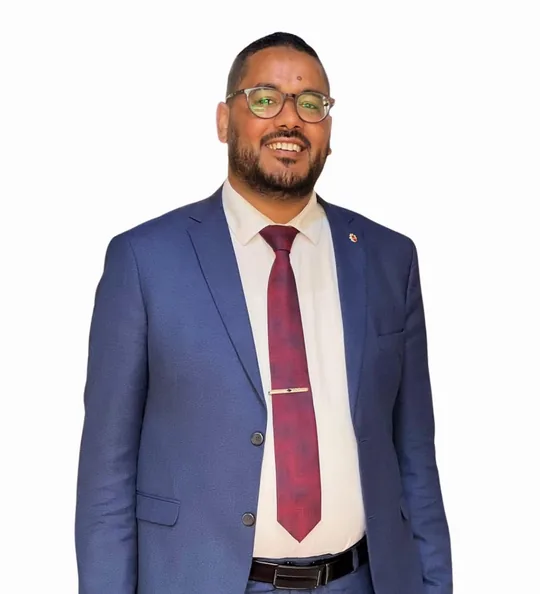
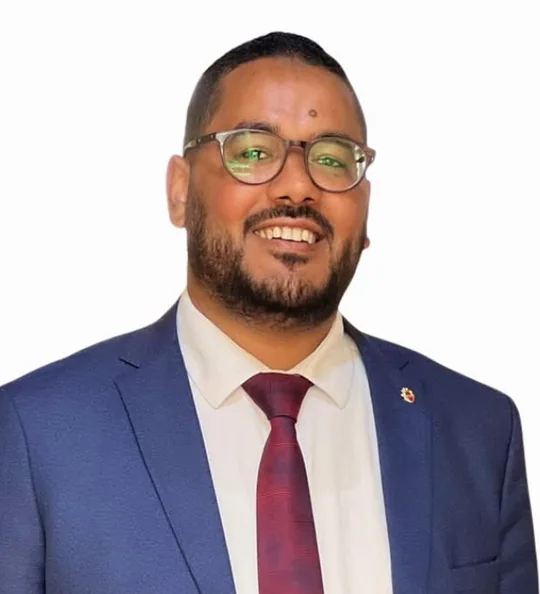
Add teacher carousel and screenshot testimonials, improve mobile copy

diff --git a/index.html b/index.html
@@ -1,17 +1,17 @@
 <!doctype html>
-<html lang="ar" dir="rtl"><head><meta charset="utf-8"><meta name="viewport" content="width=device-width, initial-scale=1"><meta name="theme-color" content="#5515a8"><meta name="description" content="صُنّاع النجاح: دروس مباشرة ودعم مدرسي عن بُعد بالمغرب. اكتشف المستويات والمواد وسجل طلبك عبر واتساب."><title>صُنّاع النجاح — نجاحك الدراسي كيبدا من هنا</title><link rel="preconnect" href="https://fonts.googleapis.com"><link href="https://fonts.googleapis.com/css2?family=Cairo:wght@400;600;700;800;900&display=swap" rel="stylesheet"><link rel="stylesheet" href="style.css"><link rel="stylesheet" href="mobile.css" media="(max-width: 600px)"><link rel="stylesheet" href="levels.css"></head><body>
+<html lang="ar" dir="rtl"><head><meta charset="utf-8"><meta name="viewport" content="width=device-width, initial-scale=1"><meta name="theme-color" content="#5515a8"><meta name="description" content="صُنّاع النجاح: دروس مباشرة ودعم مدرسي عن بُعد بالمغرب. اكتشف المستويات والمواد وسجل طلبك عبر واتساب."><title>صُنّاع النجاح — نجاحك الدراسي كيبدا من هنا</title><link rel="preconnect" href="https://fonts.googleapis.com"><link href="https://fonts.googleapis.com/css2?family=Cairo:wght@400;600;700;800;900&display=swap" rel="stylesheet"><link rel="stylesheet" href="style.css"><link rel="stylesheet" href="mobile.css" media="(max-width: 600px)"><link rel="stylesheet" href="levels.css"><link rel="stylesheet" href="teachers-carousel.css"><link rel="stylesheet" href="reviews.css"></head><body>
 <header class="nav wrap"><a href="#" aria-label="صناع النجاح، الرئيسية"><img src="assets/logo/brand.png" alt="فريق صُنّاع النجاح — رواد التدريس عن بُعد في المغرب"></a><nav aria-label="التنقل الرئيسي"><a href="#program">البرنامج</a><a href="#levels">المستويات</a><a href="#teachers">الأساتذة</a></nav><button class="small primary" data-register>ابدأ رحلة النجاح ↗</button></header>
-<main><section class="hero wrap"><div class="hero-copy"><span class="eyebrow">السنة الدراسية <bdi>2026/2027</bdi></span><p class="kicker">طموحك كبير. وحنا معاك.</p><h1>نجاحك الدراسي<br><span>كيبدا من هنا!</span></h1><p class="intro">تعليم عن بُعد بجودة عالية ومنهجية منظمة، مع نخبة من الأساتذة المتخصصين لجميع المستويات الدراسية.</p><div class="actions"><button class="whatsapp" data-register>سجل عبر واتساب <span>↖</span></button><a class="outline" href="#program">اكتشف البرنامج</a></div><div class="hero-note"><span>✓ حصص مباشرة وتفاعلية</span><span>✓ مواكبة طوال السنة</span></div></div><div class="hero-visual"><picture><source media="(max-width: 600px)" srcset="assets/images/hero-mobile-reference.png"><img src="assets/images/hero-generated.png" alt="تلميذ يتابع درسا عن بعد على حاسوبه"></picture><div class="visual-tag"><span>✦</span><div>خطوة اليوم، نجاح الغد<small>تعلم من مكانك… وحقق طموحك</small></div></div><span class="visual-year">2026<br><b>2027</b></span></div></section>
+<main><section class="hero wrap"><div class="hero-copy"><span class="eyebrow">السنة الدراسية <bdi>2026/2027</bdi></span><p class="kicker">طموحك كبير. وحنا معاك.</p><h1>نجاحك الدراسي<br><span>كيبدا من هنا!</span></h1><p class="intro"><span>تعليم عن بُعد بجودة عالية</span> <span>ومنهجية منظمة، مع نخبة من</span> <span>الأساتذة المتخصصين لجميع</span> <span>المستويات الدراسية.</span></p><div class="actions"><button class="whatsapp" data-register>سجل عبر واتساب <span>↖</span></button><a class="outline" href="#program">اكتشف البرنامج</a></div><div class="hero-note"><span>✓ حصص مباشرة وتفاعلية</span><span>✓ مواكبة طوال السنة</span></div></div><div class="hero-visual"><picture><source media="(max-width: 600px)" srcset="assets/images/hero-mobile-reference.png"><img src="assets/images/hero-generated.png" alt="تلميذ يتابع درسا عن بعد على حاسوبه"></picture><div class="visual-tag"><span>✦</span><div>خطوة اليوم، نجاح الغد<small>تعلم من مكانك… وحقق طموحك</small></div></div><span class="visual-year">2026<br><b>2027</b></span></div></section>
 <div class="trust"><div class="wrap"><span>♜ نخبة من الأساتذة الخبراء</span><span>★ تعلم منظم ومواكبة مستمرة</span><span>✦ رحلة دراسية بطموح أكبر</span></div></div>
 <section id="program" class="section wrap"><div class="section-head"><span class="eyebrow">كل ما تحتاجه لتتقدم</span><h2>مميزات فريق صُنّاع النجاح</h2><p>رحلة دراسية متكاملة، في مكان واحد</p></div><div id="features" class="features grid"></div></section>
 <section id="levels" class="section levels-section"><div class="wrap"><div class="section-head"><span class="eyebrow">لكل مرحلة، بداية جديدة</span><h2>المستويات المتوفرة</h2><p>مواكبة شاملة تناسب مستواك وأهدافك</p></div><div class="levels grid" id="level-cards"></div></div></section>
 <section class="section wrap"><div class="section-head"><h2>المواد المتوفرة</h2><p>تعلّم، تمرّن، وثبّت مكتسباتك مع أساتذة متخصصين</p></div><div class="subjects grid" id="subjects"></div></section>
-<section id="teachers" class="section teachers-section"><div class="wrap"><div class="section-head"><span class="eyebrow">خبرة ترافق طموحك</span><h2>فريق الأساتذة</h2><p>نخبة من الأساتذة المتخصصين في مختلف المواد</p></div><div id="teacher-cards" class="teachers grid"></div></div></section>
+<section id="teachers" class="section teachers-section"><div class="wrap"><div class="section-head"><span class="eyebrow">خبرة ترافق طموحك</span><h2>فريق الأساتذة</h2><p>نخبة من الأساتذة المتخصصين في مختلف المواد</p></div><div class="teacher-carousel" role="region" aria-roledescription="سلايدر" aria-label="فريق الأساتذة"><div id="teacher-cards" class="teachers grid" tabindex="0" aria-label="اسحب لتصفح الأساتذة"></div><div class="teacher-controls"><button type="button" id="teacher-prev" aria-label="الأستاذ السابق"><svg viewBox="0 0 24 24" fill="none" aria-hidden="true"><path d="m9 5 7 7-7 7" stroke="currentColor" stroke-width="2.2" stroke-linecap="round" stroke-linejoin="round"/></svg></button><button type="button" id="teacher-next" aria-label="الأستاذ التالي"><svg viewBox="0 0 24 24" fill="none" aria-hidden="true"><path d="m15 5-7 7 7 7" stroke="currentColor" stroke-width="2.2" stroke-linecap="round" stroke-linejoin="round"/></svg></button></div></div></div></section>
 <section class="section wrap"><div class="section-head"><h2>لماذا تختار فريق صُنّاع النجاح؟</h2></div><div id="why" class="why grid"></div></section>
-<section class="final-cta footer-banner" aria-labelledby="footer-cta-title">
+<section id="reviews" class="section reviews-section" aria-labelledby="reviews-title"><div class="wrap"><div class="section-head"><h2 id="reviews-title">آراء التلاميذ</h2><p>من تعليقاتكم على صفحة صُنّاع النجاح في فيسبوك</p></div><div class="reviews-track" id="reviews-track" tabindex="0" aria-label="آراء التلاميذ، اسحب لتصفح التعليقات"></div><div class="teacher-controls"><button type="button" id="reviews-prev" aria-label="التعليق السابق"><svg viewBox="0 0 24 24" fill="none" aria-hidden="true"><path d="m9 5 7 7-7 7" stroke="currentColor" stroke-width="2.2" stroke-linecap="round" stroke-linejoin="round"/></svg></button><button type="button" id="reviews-next" aria-label="التعليق التالي"><svg viewBox="0 0 24 24" fill="none" aria-hidden="true"><path d="m15 5-7 7 7 7" stroke="currentColor" stroke-width="2.2" stroke-linecap="round" stroke-linejoin="round"/></svg></button></div><p class="reviews-source">مقتطفات من التعليقات المرسلة، مع الحفاظ على خصوصية أصحابها. <a href="https://www.facebook.com/share/1F9B8NvXde/" target="_blank" rel="noopener noreferrer">صفحتنا على فيسبوك ↗</a></p></div></section><section class="final-cta footer-banner" aria-labelledby="footer-cta-title">
 <div class="footer-banner-copy"><h2 id="footer-cta-title">ادرس مع فريق صُنّاع النجاح<br><em>✨ وكن من المتفوقين ✨</em></h2>
 <a class="footer-register" href="https://wa.me/212663104227" target="_blank" rel="noopener noreferrer"><svg class="footer-wa" viewBox="0 0 32 32" fill="none" aria-hidden="true"><path d="M27.5 15.7a11.6 11.6 0 0 1-17.2 10.2L4 27.5l1.7-6.1A11.6 11.6 0 1 1 27.5 15.7Z" stroke="currentColor" stroke-width="2.2" stroke-linejoin="round"/><path d="m11.7 9.7 2 4-1.5 1.6c1.2 2.2 2.5 3.5 4.8 4.5l1.5-1.7 4 2c-.4 2-1.7 3.1-3.8 2.6-5.1-1.2-9-5.1-10.2-9.9-.5-1.7.8-3 3.2-3.1Z" fill="currentColor"/></svg><span class="footer-register-copy"><span>للتسجيل والاستفسار عبر واتساب</span><strong dir="ltr">0663104227</strong></span><span class="footer-arrow" aria-hidden="true">←</span></a>
 </div></section>
 </main>
 <footer class="site-footer"><div class="footer-benefits wrap" aria-label="مميزات التسجيل"><div class="footer-benefit"><span class="footer-benefit-icon"><span class="asset-icon" style="--ix:4;--iy:4" aria-hidden="true"></span></span><div><strong>فريق دعم متواجد</strong><small>طوال أيام الأسبوع</small></div></div><div class="footer-benefit"><span class="footer-benefit-icon"><span class="asset-icon" style="--ix:3;--iy:4" aria-hidden="true"></span></span><div><strong>تسجيل سهل</strong><small>وبدون تعقيدات</small></div></div><div class="footer-benefit"><span class="footer-benefit-icon"><span class="asset-icon" style="--ix:2;--iy:4" aria-hidden="true"></span></span><div><strong>تواصل سريع</strong><small>ورد على جميع الاستفسارات</small></div></div></div><div class="footer-meta wrap"><span>صُنّاع النجاح · السنة الدراسية <bdi>2026 / 2027</bdi></span><div><a class="social-link" href="https://www.instagram.com/sonaa_najah" target="_blank" rel="noopener noreferrer" aria-label="Instagram — صُنّاع النجاح"><svg viewBox="0 0 24 24" fill="none" aria-hidden="true"><rect x="3" y="3" width="18" height="18" rx="5" stroke="currentColor" stroke-width="1.8"/><circle cx="12" cy="12" r="4" stroke="currentColor" stroke-width="1.8"/><circle cx="17.5" cy="6.5" r="1.2" fill="currentColor"/></svg><span>Instagram</span></a><a class="social-link" href="https://www.facebook.com/share/1F9B8NvXde/" target="_blank" rel="noopener noreferrer" aria-label="Facebook — صُنّاع النجاح"><svg viewBox="0 0 24 24" fill="currentColor" aria-hidden="true"><path d="M14 21v-8h2.7l.4-3H14V8.1c0-.9.3-1.5 1.6-1.5h1.7V3.9a22 22 0 0 0-2.5-.1c-2.5 0-4.2 1.5-4.2 4.3V10H8v3h2.6v8H14Z"/></svg><span>Facebook</span></a></div></div></footer><button class="floating whatsapp" data-register>سجل الآن <span>↖</span></button>
-<dialog id="registration" aria-labelledby="modal-title"><div class="modal-top"><div><strong id="modal-title">ابدأ رحلتك مع صُنّاع النجاح</strong><small>خطوات بسيطة نحو مستقبل أفضل</small></div><button id="close" class="icon-button" aria-label="إغلاق">×</button></div><div class="progress" aria-label="مراحل التسجيل"></div><form id="registration-form" novalidate><div id="step-content"></div><p id="form-error" role="alert"></p><div class="form-nav"><button type="button" id="back" class="outline">→ السابق</button><button type="submit" id="next" class="primary">التالي ←</button></div></form></dialog><script src="script.js"></script></body></html>
+<dialog id="registration" aria-labelledby="modal-title"><div class="modal-top"><div><strong id="modal-title">ابدأ رحلتك مع صُنّاع النجاح</strong><small>خطوات بسيطة نحو مستقبل أفضل</small></div><button id="close" class="icon-button" aria-label="إغلاق">×</button></div><div class="progress" aria-label="مراحل التسجيل"></div><form id="registration-form" novalidate><div id="step-content"></div><p id="form-error" role="alert"></p><div class="form-nav"><button type="button" id="back" class="outline">→ السابق</button><button type="submit" id="next" class="primary">التالي ←</button></div></form></dialog><script src="script.js"></script><script src="teachers-carousel.js"></script><script src="reviews.js"></script></body></html>

diff --git a/assets-preview.html b/assets-preview.html
@@ -1,1 +1,1 @@
-<!doctype html><html lang="ar" dir="rtl"><meta charset="utf-8"><meta name="viewport" content="width=device-width,initial-scale=1"><title>Sonaa Najah - Asset review</title><style>body{font:16px Arial,sans-serif;background:#f8f3ff;color:#240763;margin:30px;line-height:1.8}main{max-width:1200px;margin:auto}a{color:#5515a8}.grid{display:grid;grid-template-columns:repeat(auto-fit,minmax(200px,1fr));gap:20px}figure{margin:0;background:white;border:1px solid #dfc8fb;border-radius:20px;padding:20px;text-align:center}figure img{width:100%;height:230px;object-fit:contain;background:radial-gradient(ellipse at bottom,#e2c6ff,transparent 65%)}.wide{display:block;width:100%;height:auto;border-radius:20px}.atlas{max-width:800px;margin:auto;background:white}h1,h2{margin-top:35px}figcaption{font-size:14px}small{color:#816398}</style><main><a href="index.html">Sonaa Najah ?</a><h1>Generated assets</h1><small>Built-in ImageGen ? teacher portraits supplied by the user and optimized as WebP.</small><h2>Hero</h2><img class="wide" src="assets/images/hero-generated.png" alt="Hero"><h2>Footer banner</h2><img class="wide" src="assets/images/footer-banner-generated.png" alt="Footer banner"><h2>Teacher portraits</h2><div class="grid"><figure><img src="assets/images/teacher-0-photo.webp" alt="د. صابر مستور"><figcaption><strong>د. صابر مستور</strong><br>اللغة العربية</figcaption></figure><figure><img src="assets/images/teacher-1-photo.webp" alt="د. محمد أسكنيض"><figcaption><strong>د. محمد أسكنيض</strong><br>اللغة الفرنسية</figcaption></figure><figure><img src="assets/images/teacher-2-photo.webp" alt="د. زكرياء خشاش"><figcaption><strong>د. زكرياء خشاش</strong><br>التربية الإسلامية</figcaption></figure><figure><img src="assets/images/teacher-3-photo.webp" alt="د. زكي الأنصاري"><figcaption><strong>د. زكي الأنصاري</strong><br>الاجتماعيات</figcaption></figure><figure><img src="assets/images/teacher-4-photo.webp" alt="د. عبد الرحيم الزعاري"><figcaption><strong>د. عبد الرحيم الزعاري</strong><br>علوم الحياة والأرض</figcaption></figure><figure><img src="assets/images/teacher-5-photo.webp" alt="د. نوفل فزازي"><figcaption><strong>د. نوفل فزازي</strong><br>الفلسفة</figcaption></figure><figure><img src="assets/images/teacher-6-photo.webp" alt="د. أمين السحات"><figcaption><strong>د. أمين السحات</strong><br>اللغة الإنجليزية</figcaption></figure><figure><img src="assets/images/teacher-7-photo.webp" alt="د. المهدي سويومطو"><figcaption><strong>د. المهدي سويومطو</strong><br>الرياضيات</figcaption></figure><figure><img src="assets/images/teacher-8-photo.webp" alt="د. زكرياء عنترة"><figcaption><strong>د. زكرياء عنترة</strong><br>الفيزياء والكيمياء</figcaption></figure><figure><img src="assets/images/teacher-9-photo.webp" alt="د. عثمان سلاسي"><figcaption><strong>د. عثمان سلاسي</strong><br>الإشراف والمواكبة</figcaption></figure></div><h2>Students & decoration</h2><div class="grid"><figure><img src="assets/images/student-middle.png" alt="student-middle"><figcaption>student-middle</figcaption></figure><figure><img src="assets/images/student-first.png" alt="student-first"><figcaption>student-first</figcaption></figure><figure><img src="assets/images/student-second.png" alt="student-second"><figcaption>student-second</figcaption></figure><figure><img src="assets/images/cta-books.png" alt="cta-books"><figcaption>cta-books</figcaption></figure></div><h2>25 education icons</h2><img class="wide atlas" src="assets/icons/education-atlas.png" alt="25 icon education atlas"></main></html>
+<!doctype html><html lang="ar" dir="rtl"><meta charset="utf-8"><meta name="viewport" content="width=device-width,initial-scale=1"><title>Sonaa Najah - Asset review</title><style>body{font:16px Arial,sans-serif;background:#f8f3ff;color:#240763;margin:30px;line-height:1.8}main{max-width:1200px;margin:auto}a{color:#5515a8}.grid{display:grid;grid-template-columns:repeat(auto-fit,minmax(200px,1fr));gap:20px}figure{margin:0;background:white;border:1px solid #dfc8fb;border-radius:20px;padding:20px;text-align:center}figure img{width:100%;height:230px;object-fit:contain;background:radial-gradient(ellipse at bottom,#e2c6ff,transparent 65%)}.wide{display:block;width:100%;height:auto;border-radius:20px}.atlas{max-width:800px;margin:auto;background:white}h1,h2{margin-top:35px}figcaption{font-size:14px}small{color:#816398}</style><main><a href="index.html">Sonaa Najah ?</a><h1>Generated assets</h1><small>Built-in ImageGen ? teacher portraits supplied by the user and optimized as WebP.</small><h2>Hero</h2><img class="wide" src="assets/images/hero-generated.png" alt="Hero"><h2>Footer banner</h2><img class="wide" src="assets/images/footer-banner-generated.png" alt="Footer banner"><h2>Teacher portraits</h2><div class="grid"><figure><img src="assets/images/teacher-0-photo.webp" alt="ذ. صابر مستور"><figcaption><strong>ذ. صابر مستور</strong><br>اللغة العربية</figcaption></figure><figure><img src="assets/images/teacher-1-photo.webp" alt="ذ. محمد أسكنيض"><figcaption><strong>ذ. محمد أسكنيض</strong><br>اللغة الفرنسية</figcaption></figure><figure><img src="assets/images/teacher-2-photo.webp" alt="ذ. زكرياء خشاش"><figcaption><strong>ذ. زكرياء خشاش</strong><br>التربية الإسلامية</figcaption></figure><figure><img src="assets/images/teacher-3-photo.webp" alt="ذ. زكي الأنصاري"><figcaption><strong>ذ. زكي الأنصاري</strong><br>الاجتماعيات</figcaption></figure><figure><img src="assets/images/teacher-4-photo.webp" alt="ذ. عبد الرحيم الزعاري"><figcaption><strong>ذ. عبد الرحيم الزعاري</strong><br>علوم الحياة والأرض</figcaption></figure><figure><img src="assets/images/teacher-5-photo.webp" alt="ذ. نوفل فزازي"><figcaption><strong>ذ. نوفل فزازي</strong><br>الفلسفة</figcaption></figure><figure><img src="assets/images/teacher-6-photo.webp" alt="ذ. أمين السحات"><figcaption><strong>ذ. أمين السحات</strong><br>اللغة الإنجليزية</figcaption></figure><figure><img src="assets/images/teacher-7-photo.webp" alt="ذ. المهدي سويومطو"><figcaption><strong>ذ. المهدي سويومطو</strong><br>الرياضيات</figcaption></figure><figure><img src="assets/images/teacher-8-photo.webp" alt="ذ. زكرياء عنترة"><figcaption><strong>ذ. زكرياء عنترة</strong><br>الفيزياء والكيمياء</figcaption></figure><figure><img src="assets/images/teacher-9-photo.webp" alt="ذ. عثمان سلاسي"><figcaption><strong>ذ. عثمان سلاسي</strong><br>الإشراف والمواكبة</figcaption></figure></div><h2>Students & decoration</h2><div class="grid"><figure><img src="assets/images/student-middle.png" alt="student-middle"><figcaption>student-middle</figcaption></figure><figure><img src="assets/images/student-first.png" alt="student-first"><figcaption>student-first</figcaption></figure><figure><img src="assets/images/student-second.png" alt="student-second"><figcaption>student-second</figcaption></figure><figure><img src="assets/images/cta-books.png" alt="cta-books"><figcaption>cta-books</figcaption></figure></div><h2>25 education icons</h2><img class="wide atlas" src="assets/icons/education-atlas.png" alt="25 icon education atlas"></main></html>

diff --git a/script.js b/script.js
@@ -36,7 +36,7 @@ document.querySelector('#features').innerHTML=features.map(featureHTML).join('')
 document.querySelector('#level-cards').innerHTML=['middle','first','second'].map((key,i)=>`<article data-level="${key}" class="level-card level-${key}"><div class="level-portrait"><img src="assets/images/student-${key}.png" alt="" loading="lazy">${iconAsset(0,"level-cap")}</div><div class="level-copy"><h3>${LEVELS[key]}</h3><p>${key==='first'?'جميع الشعب':key==='second'?'أحرار ومتمدرسون<br>الشعب العلمية والأدبية':'أحرار ومتمدرسون'}</p><button data-level="${key}" aria-label="التسجيل في ${LEVELS[key]}">←</button></div></article>`).join('');
 const icons=['∑','⚛','♧','A','▤','◎','◇','EN','◈'];
 document.querySelector('#subjects').innerHTML=Object.entries(SUBJECTS).filter(([k])=>k!=='history').map(([k,v],i)=>`<div class="subject">${iconAsset(({math:10,physics:9,svt:14,french:12,arabic:13,social:16,islamic:17,english:11,philosophy:15})[k])}${v}</div>`).join('');
-const teachers=[['د. صابر مستور','اللغة العربية'],['د. محمد أسكنيض','اللغة الفرنسية'],['د. زكرياء خشاش','التربية الإسلامية'],['د. زكي الأنصاري','الاجتماعيات'],['د. عبد الرحيم الزعاري','علوم الحياة والأرض'],['د. نوفل فزازي','الفلسفة'],['د. أمين السحات','اللغة الإنجليزية'],['د. المهدي سويومطو','الرياضيات'],['د. زكرياء عنترة','الفيزياء والكيمياء'],['د. عثمان سلاسي','الإشراف والمواكبة']];
+const teachers=[['ذ. صابر مستور','اللغة العربية'],['ذ. محمد أسكنيض','اللغة الفرنسية'],['ذ. زكرياء خشاش','التربية الإسلامية'],['ذ. زكي الأنصاري','الاجتماعيات'],['ذ. عبد الرحيم الزعاري','علوم الحياة والأرض'],['ذ. نوفل فزازي','الفلسفة'],['ذ. أمين السحات','اللغة الإنجليزية'],['ذ. المهدي سويومطو','الرياضيات'],['ذ. زكرياء عنترة','الفيزياء والكيمياء'],['ذ. عثمان سلاسي','الإشراف والمواكبة']];
 document.querySelector('#teacher-cards').innerHTML=teachers.map(([n,s],i)=>`<article class="teacher"><div class="teacher-portrait"><img src="assets/images/teacher-${i}-photo.webp" alt="${n}" loading="lazy" width="400" height="440"></div><h3>${n}</h3><p>${s}</p></article>`).join('');
 document.querySelector('#why').innerHTML=[['◇','محتوى متكامل','دروس، ملخصات، تمارين ومناهج مبسطة'],['♧','حصص مباشرة وتفاعلية','مباشرة وتبقى مسجلة لإعادة المشاهدة'],['▥','متابعة شخصية','لتتبع تقدمك وتحقيق أفضل نتائجك'],['✦','تعلم عن بُعد بجودة عالية','من أي مكان في المغرب']].map((item,i)=>featureHTML(item,[18,19,20,21][i])).join('');
 let data={type:'student',name:'',phone:'',studentName:'',level:'middle',status:'enrolled',stream:'',city:'',service:'all',subjects:[]},step=0,lastFocus;

diff --git a/reviews.css b/reviews.css
@@ -1,0 +1,2 @@
+.reviews-section{background:radial-gradient(ellipse at top,#ede0ff,transparent 70%),#faf7ff}.reviews-track{display:flex;direction:ltr;gap:20px;align-items:stretch;overflow-x:auto;scroll-snap-type:x mandatory;overscroll-behavior-x:contain;scrollbar-width:none;padding:8px 3px 20px}.reviews-track::-webkit-scrollbar{display:none}.review-card{direction:rtl;flex:0 0 calc((100% - 40px)/3);min-width:0;margin:0;padding:24px;border:1px solid #e4d4f6;border-radius:22px;background:#fff;box-shadow:0 8px 20px #5515a80a;display:flex;flex-direction:column;scroll-snap-align:start}.review-quote{font:900 64px/1 Georgia,serif;color:#ae72de;height:43px}.review-card blockquote{font-size:14px;line-height:2;font-weight:600;color:#463155;margin:0 0 22px;flex:1}.review-card figcaption{display:flex;gap:10px;align-items:center;border-top:1px solid #f0e8f8;padding-top:15px}.review-avatar{display:grid;place-items:center;background:#f1e5ff;color:#7435b3;flex:0 0 38px;width:38px;height:38px;border-radius:50%}.review-avatar svg{width:23px;height:23px}.review-card strong{font-size:12px;color:#5515a8}.review-card small{display:block;font-size:10px;color:#8c779a}.reviews-source{text-align:center;font-size:11px;color:#8c779a;margin:15px 0 0;line-height:1.8}.reviews-source a{color:#5515a8;text-decoration:underline;text-underline-offset:3px}@media(max-width:850px){.review-card{flex-basis:calc((100% - 20px)/2)}}@media(max-width:600px){.reviews-track{gap:12px}.review-card{flex-basis:90%;padding:20px;border-radius:19px}.review-card blockquote{font-size:14px;line-height:1.95}.reviews-source{font-size:11px;padding-inline:8px}}
+.reviews-track .review-screenshot{flex:0 0 calc((100% - 20px)/2);padding:8px;overflow:hidden;align-self:flex-start}.review-screenshot>a{display:block;width:100%;position:relative}.review-screenshot img{display:block;width:100%;height:auto;border-radius:14px;object-fit:contain}.review-zoom{display:block;text-align:center;padding:10px;color:#5515a8;font-size:12px;font-weight:800;background:#f7f0ff;border-radius:10px;margin-top:7px}@media(max-width:600px){.reviews-track .review-screenshot{flex-basis:96%;padding:5px;border-radius:15px}.review-screenshot img{border-radius:10px}}

diff --git a/reviews.js b/reviews.js
@@ -1,0 +1,23 @@
+'use strict';
+(()=>{
+ // Excerpts transcribed from the user-supplied Facebook screenshots. Names intentionally omitted.
+ const track=document.querySelector('#reviews-track');
+ track.innerHTML=[1,2,3].map((n)=>`<figure class="review-card review-screenshot"><a href="assets/images/reviews/facebook-comments-${n}.webp" target="_blank" rel="noopener" aria-label="تكبير صورة التعليقات ${n}"><img src="assets/images/reviews/facebook-comments-${n}.webp" alt="تعليقات التلاميذ على فيسبوك ${n}" loading="lazy" width="844" height="925"><span class="review-zoom">تكبير الصورة ↗</span></a></figure>`).join('');
+ const reduced=window.matchMedia('(prefers-reduced-motion: reduce)');
+ let hovered=false,touching=false,lastManual=0;
+ function move(direction,manual=false){
+  if(manual)lastManual=Date.now();
+  const step=track.querySelector('.review-card').getBoundingClientRect().width+parseFloat(getComputedStyle(track).gap);
+  const max=track.scrollWidth-track.clientWidth;
+  let next=Math.round(track.scrollLeft/step)*step+direction*step;
+  if(next>max+2)next=0;else if(next<0)next=max;
+  track.scrollTo({left:Math.min(max,next),behavior:reduced.matches?'instant':'smooth'});
+ }
+ document.querySelector('#reviews-next').addEventListener('click',()=>move(1,true));
+ document.querySelector('#reviews-prev').addEventListener('click',()=>move(-1,true));
+ track.addEventListener('pointerenter',()=>{hovered=true;});track.addEventListener('pointerleave',()=>{hovered=false;});
+ track.addEventListener('pointerdown',()=>{touching=true;lastManual=Date.now();});
+ window.addEventListener('pointerup',()=>{touching=false;});
+ track.addEventListener('keydown',e=>{if(e.key==='ArrowRight'||e.key==='ArrowLeft'){e.preventDefault();move(e.key==='ArrowRight'?1:-1,true);}});
+ setInterval(()=>{if(reduced.matches||hovered||touching||document.hidden||track.contains(document.activeElement)||Date.now()-lastManual<10000)return;const r=track.getBoundingClientRect();if(r.bottom>0&&r.top<window.innerHeight)move(1);},6500);
+})();

diff --git a/teachers-carousel.css b/teachers-carousel.css
@@ -1,0 +1,13 @@
+#teachers #teacher-cards{display:flex;direction:ltr;gap:18px;overflow-x:auto;overscroll-behavior-x:contain;scroll-snap-type:x mandatory;scrollbar-width:none;padding:5px 2px 15px;align-items:stretch;touch-action:pan-x pan-y}
+#teacher-cards::-webkit-scrollbar{display:none}
+#teachers #teacher-cards .teacher{direction:rtl;flex:0 0 calc((100% - 72px)/5);scroll-snap-align:start;min-width:0;display:flex;flex-direction:column}
+#teachers .teacher-portrait{aspect-ratio:1/1.1;background:#fdfdfd;overflow:hidden;border-radius:19px 19px 0 0}
+#teachers .teacher .teacher-portrait img{width:100%;height:100%;object-fit:cover;object-position:center;display:block;margin:0}
+#teachers .teacher h3{font-size:13px;min-height:48px;margin:0;padding:8px 4px;line-height:1.7;border-radius:0;display:flex;align-items:center;justify-content:center}
+#teachers .teacher p{font-size:12px;min-height:40px;margin:0;padding:6px 4px;line-height:1.7;flex:1;display:flex;align-items:center;justify-content:center}
+.teacher-controls{display:flex;align-items:center;justify-content:center;gap:12px;margin-top:10px}
+.teacher-controls button{border:1px solid #d6bdef;border-radius:50%;background:#fff;color:#5515a8;width:44px;height:44px;font-weight:800;font-size:23px;display:grid;place-items:center;padding:0}
+.teacher-controls #teacher-autoplay{width:auto;min-width:125px;border-radius:24px;padding:0 16px;font-size:12px}
+@media(max-width:850px){#teachers #teacher-cards .teacher{flex-basis:calc((100% - 36px)/3)}}
+@media(max-width:600px){#teachers #teacher-cards{gap:12px}#teachers #teacher-cards .teacher{flex-basis:calc((100% - 12px)/2)}#teachers .teacher h3{font-size:12px;min-height:46px}#teachers .teacher p{font-size:11px;min-height:40px}}
+.teacher-controls{gap:16px}.teacher-controls button svg{display:block;width:23px;height:23px}.teacher-controls button:hover{background:#5515a8;color:#fff}

diff --git a/teachers-carousel.js b/teachers-carousel.js
@@ -1,0 +1,25 @@
+'use strict';
+(()=>{
+ const track=document.querySelector('#teacher-cards');
+ const reduced=window.matchMedia('(prefers-reduced-motion: reduce)');
+ let paused=reduced.matches,hovering=false,touching=false,lastManual=0;
+ const move=(direction,manual=false)=>{
+  if(manual)lastManual=Date.now();
+  const card=track.querySelector('.teacher');if(!card)return;
+  const step=card.getBoundingClientRect().width+parseFloat(getComputedStyle(track).gap);
+  const max=track.scrollWidth-track.clientWidth;
+  const at=Math.round(track.scrollLeft/step)*step;
+  let next=at+direction*step;
+  if(next>max+2)next=0;else if(next<0)next=max;
+  track.scrollTo({left:Math.min(max,next),behavior:reduced.matches?'instant':'smooth'});
+ };
+ document.querySelector('#teacher-next').addEventListener('click',()=>move(1,true));
+ document.querySelector('#teacher-prev').addEventListener('click',()=>move(-1,true));
+ track.addEventListener('pointerenter',()=>{hovering=true;});
+ track.addEventListener('pointerleave',()=>{hovering=false;});
+ track.addEventListener('pointerdown',()=>{touching=true;lastManual=Date.now();});
+ window.addEventListener('pointerup',()=>{touching=false;lastManual=Date.now();});
+ track.addEventListener('keydown',event=>{if(event.key==='ArrowRight'||event.key==='ArrowLeft'){event.preventDefault();move(event.key==='ArrowRight'?1:-1,true);}});
+ reduced.addEventListener('change',()=>{if(reduced.matches){paused=true;}});
+ setInterval(()=>{if(paused||hovering||touching||document.hidden||Date.now()-lastManual<8000||track.contains(document.activeElement))return;const rect=track.getBoundingClientRect();if(rect.bottom>0&&rect.top<window.innerHeight)move(1);},4000);
+})();

diff --git a/mobile.css b/mobile.css
@@ -66,3 +66,9 @@
  .hero .whatsapp:before,.hero .outline:before{width:5vw;height:5vw;flex-basis:5vw}
  .hero .actions .whatsapp span{margin-inline-start:auto;font-size:3.5vw}.hero-note,.visual-tag,.visual-year{display:none}
 }
+/* Keep the complete supporting copy readable above the laptop image. */
+@media(max-width:600px){
+ .hero .intro{top:55%;left:7%;right:4%;padding:1vw .6vw;font-size:2.4vw;line-height:1.55;font-weight:800;color:#28163f;background:#fcfafff5;border-radius:8px;box-shadow:0 0 9px 5px #fcfaffd9;z-index:2;overflow:visible;text-shadow:none}
+ .hero .intro span{display:block;white-space:nowrap}
+ .hero .actions{top:77%;bottom:3%;gap:1vw}
+}

diff --git a/README.md b/README.md
@@ -40,3 +40,6 @@ The 50 form/pricing assertions pass after this CSS change. Automated browser acc
 
 ## Reference level cards
 The level cards now use `levels.css`, loaded after the mobile stylesheet. Existing independent student images are composed with CSS: portrait overhangs, slight alternating card angles, lavender/gold backgrounds, overlapping pill ribbons, reference subtitles and compact arrow controls. Original level-selection behavior is retained. Mobile card heights include enough room for the second-baccalaureate two-line subtitle.
+
+## Teacher carousel
+Teacher photographs use consistent face-scale crops from the supplied originals. `teachers-carousel.css` and `teachers-carousel.js` provide a horizontal scroll-snap carousel with previous/next controls, touch swiping, arrow-key navigation and automatic advance every four seconds while visible. Autoplay pauses during hover, interaction, keyboard focus and hidden tabs. A visible pause/play button and reduced-motion preference are supported. Mobile shows two equally sized cards.
